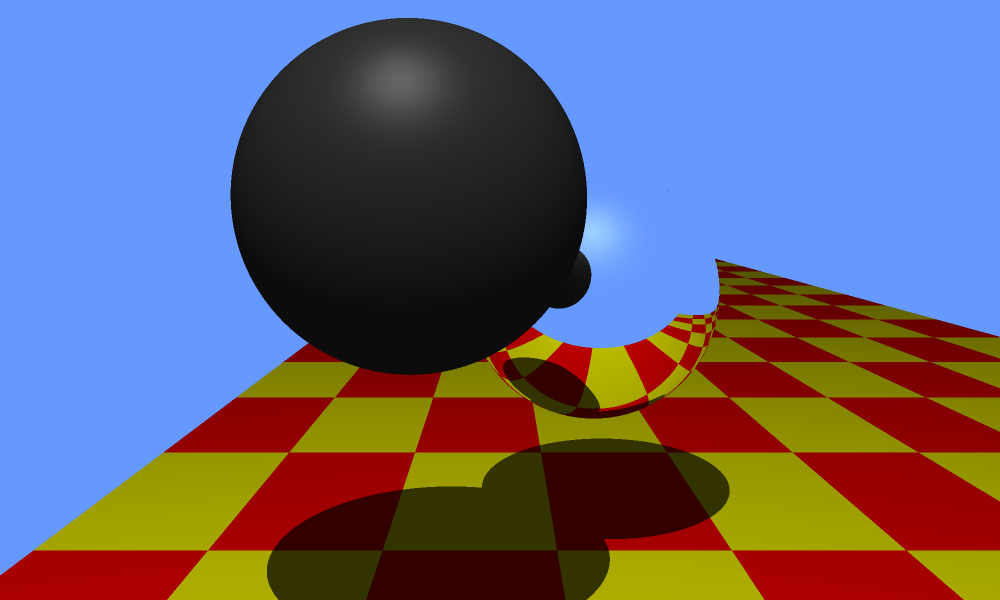
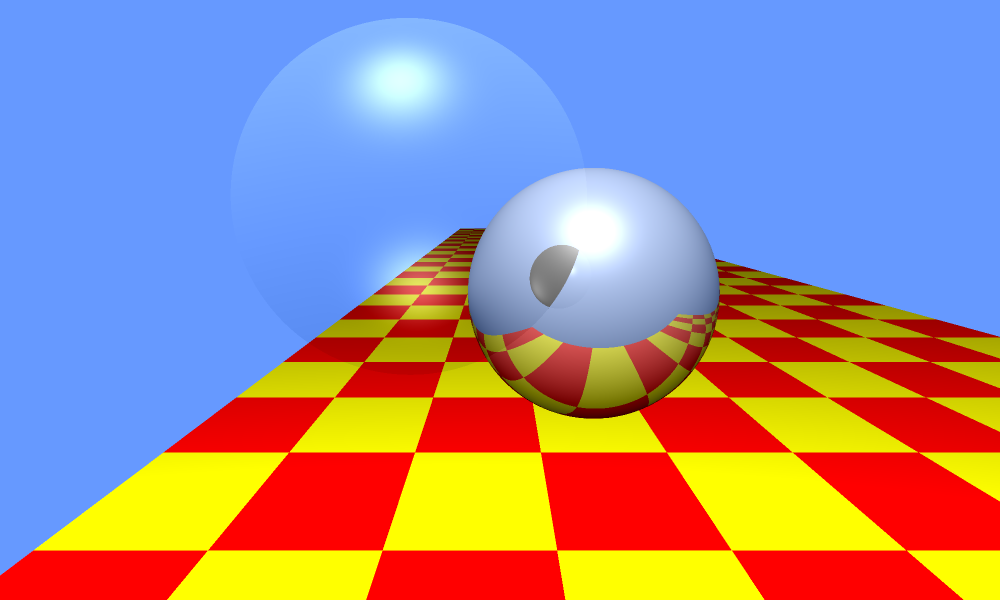
Refraction almost complete.

diff --git a/raytracer/src/world/camera.rs b/raytracer/src/world/camera.rs
@@ -148,23 +148,66 @@ impl Camera {
         let mut total_light =
             ill_model.illuminate(world, &int, self.position, &self.view_transform);
 
-        if depth < int.object.get_max_depth() {
-            let kr = int.object.get_kr();
-            let kt = int.object.get_kt();
+        if depth == int.object.get_max_depth() {
+            return total_light;
+        };
 
-            let v_i = ray.direction;
-            let angle = v_i.dot(int.normal);
+        let kr = int.object.get_kr();
+        let kt = int.object.get_kt();
 
-            if kr > 0.0 {
-                let reflected = v_i - 2.0 * angle / int.normal.length().powi(2) * int.normal;
+        let v_i = ray.direction;
+        let angle = v_i.dot(int.normal);
+
+        if kr > 0.0 {
+            let reflected = v_i - 2.0 * angle / int.normal.length().powi(2) * int.normal;
+            let offset = reflected.normalize() * 0.001;
+            let refl_ray = Ray::new(int.intersection_point + offset, reflected.normalize());
+
+            total_light += kr * self.illuminate(refl_ray, depth + 1, world, ill_model);
+        }
+
+        if kt > 0.0 {
+            let refraction_initial;
+            let refraction_transmission;
+            let normal;
+
+            // inside object
+            if (-ray.direction).dot(int.normal) < 0.0 {
+                refraction_initial = int.object.get_refraction_index();
+                refraction_transmission = 1.0; // air
+                normal = -int.normal;
+            } else {
+                refraction_initial = 1.0; // air
+                refraction_transmission = int.object.get_refraction_index();
+                normal = int.normal;
+            }
+
+            if refraction_initial == refraction_transmission {
+                let offset = ray.direction * 0.001;
+                let transmission_ray = Ray::new(int.intersection_point + offset, ray.direction);
+                return total_light
+                    + kt * self.illuminate(transmission_ray, depth + 1, world, ill_model);
+            }
+
+            let refraction_coef = refraction_initial / refraction_transmission;
+            let cos_theta_i = (-ray.direction).dot(normal);
+            let sin_theta_t_sq = (refraction_coef.powi(2)) * (1.0 - (cos_theta_i.powi(2)));
+
+            // perfect reflection
+            if 1.0 - sin_theta_t_sq < 0.0 {
+                let reflected = v_i - 2.0 * angle / normal.length().powi(2) * normal;
                 let offset = reflected.normalize() * 0.001;
                 let refl_ray = Ray::new(int.intersection_point + offset, reflected.normalize());
 
-                total_light += kr * self.illuminate(refl_ray, depth + 1, world, ill_model);
-            }
+                total_light += kt * self.illuminate(refl_ray, depth + 1, world, ill_model);
+            } else {
+                let t = refraction_coef * ray.direction.normalize()
+                    + ((refraction_coef * cos_theta_i - (1.0 - sin_theta_t_sq).sqrt()) * normal);
+                let transmission_dir = t.normalize();
+                let offset = transmission_dir * 0.001;
+                let transmission_ray = Ray::new(int.intersection_point + offset, transmission_dir);
 
-            if kt > 0.0 {
-                // not handling this yet
+                total_light += kt * self.illuminate(transmission_ray, depth + 1, world, ill_model);
             }
         }
 

diff --git a/raytracer/src/main.rs b/raytracer/src/main.rs
@@ -75,7 +75,7 @@ fn create_lights() -> Vec<LightSource> {
     let mut lights = vec![];
 
     let main_light_pos = Vec3::new(-1.0, 20.0, 10.0);
-    let main_light_radiance = Vec3::new(1.0, 1.0, 1.0);
+    let main_light_radiance = Vec3::new(2.0, 2.0, 2.0);
     let main_light_ambient = Vec3::new(1.0, 1.0, 1.0);
 
     lights.push(LightSource::new(
@@ -83,6 +83,16 @@ fn create_lights() -> Vec<LightSource> {
         main_light_radiance,
         main_light_ambient,
     ));
+
+    // let sec_light_pos = Vec3::new(5.0, 10.0, 10.0);
+    // let sec_light_radiance = Vec3::new(0.8, 0.1, 1.0);
+    // let sec_light_ambient = Vec3::new(1.0, 1.0, 1.0);
+
+    // lights.push(LightSource::new(
+    //     sec_light_pos,
+    //     sec_light_radiance,
+    //     sec_light_ambient,
+    // ));
 
     lights
 }
@@ -137,8 +147,8 @@ fn create_floor() -> (Triangle, Triangle) {
     let tr_v2 = Vec3::new(1.0, 1.0, 0.0);
     let tr_v3 = Vec3::new(0.0, 1.0, 0.0);
 
-    let mut triangle_l = Triangle::new((tl_v1, tl_v2, tl_v3), Box::new(triangle_l_material));
-    let mut triangle_r = Triangle::new((tr_v1, tr_v2, tr_v3), Box::new(triangle_r_material));
+    let mut triangle_l = Triangle::new((tl_v1, tl_v2, tl_v3), Box::new(triangle_l_material), 1.0);
+    let mut triangle_r = Triangle::new((tr_v1, tr_v2, tr_v3), Box::new(triangle_r_material), 1.0);
 
     triangle_l.translate_mut(Vec3::new(-8.0, 0.0, 0.0));
     triangle_l.scale_mut(Vec3::new(30.0, 200.0, 1.0));
@@ -154,21 +164,21 @@ fn create_floor() -> (Triangle, Triangle) {
 fn create_spheres() -> (Sphere, Sphere) {
     let spec_color = Vec3::new(1.0, 1.0, 1.0);
 
-    let sphere_1_color = Vec3::new(0.25, 0.25, 0.25);
-    let sphere_1_material = FlatMaterial::new(sphere_1_color, spec_color, 0.0, 0.0, 1);
+    let sphere_1_color = Vec3::new(0.05, 0.05, 0.05);
+    let sphere_1_material = FlatMaterial::new(sphere_1_color, spec_color, 0.0, 1.0, 4);
 
-    let sphere_2_color = Vec3::new(0.0, 0.0, 0.0);
-    let sphere_2_material = FlatMaterial::new(sphere_2_color, spec_color, 1.0, 0.0, 4);
+    let sphere_2_color = Vec3::new(0.45, 0.45, 0.45);
+    let sphere_2_material = FlatMaterial::new(sphere_2_color, spec_color, 0.4, 0.0, 4);
 
     let sphere_radius = 2.0;
 
     // in model space
     let sphere_pos = Vec3::new(0.0, 0.0, 0.0);
 
-    let mut sphere_gray = Sphere::new(sphere_pos, sphere_radius, Box::new(sphere_1_material));
+    let mut sphere_gray = Sphere::new(sphere_pos, sphere_radius, Box::new(sphere_1_material), 1.0);
     sphere_gray.translate_mut(Vec3::new(-1.0, 6.0, -1.5));
 
-    let mut sphere_white = Sphere::new(sphere_pos, sphere_radius, Box::new(sphere_2_material));
+    let mut sphere_white = Sphere::new(sphere_pos, sphere_radius, Box::new(sphere_2_material), 1.0);
     sphere_white.translate_mut(Vec3::new(1.5, 4.5, -6.0));
 
     (sphere_gray, sphere_white)

diff --git a/raytracer/src/geometry/primitives/triangle.rs b/raytracer/src/geometry/primitives/triangle.rs
@@ -14,10 +14,15 @@ pub struct Triangle {
     scaling_matrix: Mat4,
     translation_matrix: Mat4,
     rotation_matrix: Mat4,
+    refraction_index: f32,
 }
 
 impl Triangle {
-    pub fn new(vertices: (Vec3, Vec3, Vec3), material: Box<dyn Material>) -> Self {
+    pub fn new(
+        vertices: (Vec3, Vec3, Vec3),
+        material: Box<dyn Material>,
+        refraction_index: f32,
+    ) -> Self {
         Self {
             vertices,
             material,
@@ -25,6 +30,7 @@ impl Triangle {
             scaling_matrix: Mat4::IDENTITY,
             translation_matrix: Mat4::IDENTITY,
             rotation_matrix: Mat4::IDENTITY,
+            refraction_index,
         }
     }
 
@@ -171,5 +177,9 @@ impl Object for Triangle {
 
     fn get_max_depth(&self) -> u32 {
         self.material.get_max_depth()
+    }
+
+    fn get_refraction_index(&self) -> f32 {
+        self.refraction_index
     }
 }

diff --git a/raytracer/src/geometry/primitives/sphere.rs b/raytracer/src/geometry/primitives/sphere.rs
@@ -13,16 +13,23 @@ pub struct Sphere {
     material: Box<dyn Material>,
     model_transform: Mat4,
     translation_matrix: Mat4,
+    refraction_index: f32,
 }
 
 impl Sphere {
-    pub fn new(center: Vec3, radius: f32, material: Box<dyn Material>) -> Self {
+    pub fn new(
+        center: Vec3,
+        radius: f32,
+        material: Box<dyn Material>,
+        refraction_index: f32,
+    ) -> Self {
         Self {
             center,
             radius,
             material,
             model_transform: Mat4::IDENTITY,
             translation_matrix: Mat4::IDENTITY,
+            refraction_index,
         }
     }
 
@@ -161,5 +168,9 @@ impl Object for Sphere {
 
     fn get_max_depth(&self) -> u32 {
         self.material.get_max_depth()
+    }
+
+    fn get_refraction_index(&self) -> f32 {
+        self.refraction_index
     }
 }

diff --git a/raytracer/src/lighting/illumination/phong_blinn.rs b/raytracer/src/lighting/illumination/phong_blinn.rs
@@ -1,9 +1,7 @@
 use glam::{Mat4, Vec3};
 
 use crate::{
-    geometry::intersection::Intersection,
-    lighting::{illumination::IlluminationModel, ray::Ray},
-    world::World,
+    geometry::intersection::Intersection, lighting::illumination::IlluminationModel, world::World,
 };
 
 pub struct PhongBlinn {

diff --git a/raytracer/src/geometry/object.rs b/raytracer/src/geometry/object.rs
@@ -19,5 +19,7 @@ pub trait Object {
 
     fn get_kt(&self) -> f32;
 
+    fn get_refraction_index(&self) -> f32;
+
     fn get_max_depth(&self) -> u32;
 }
